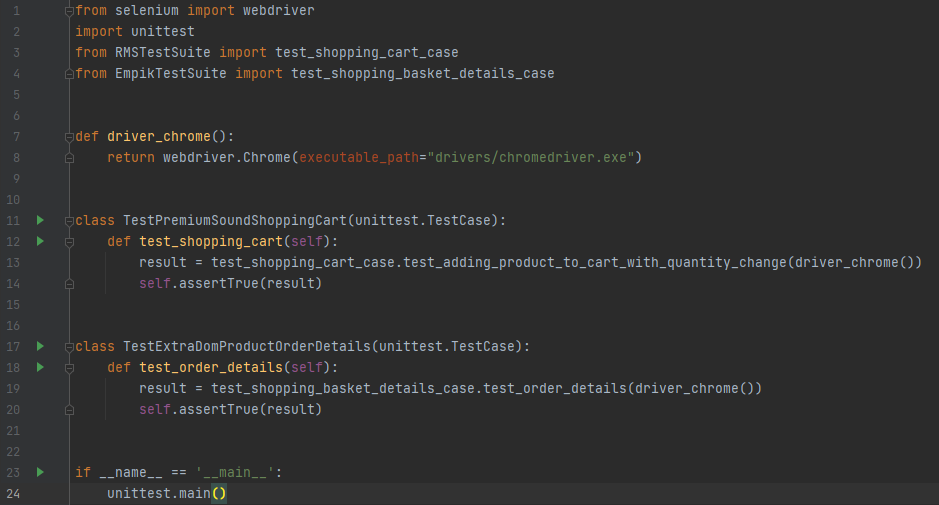
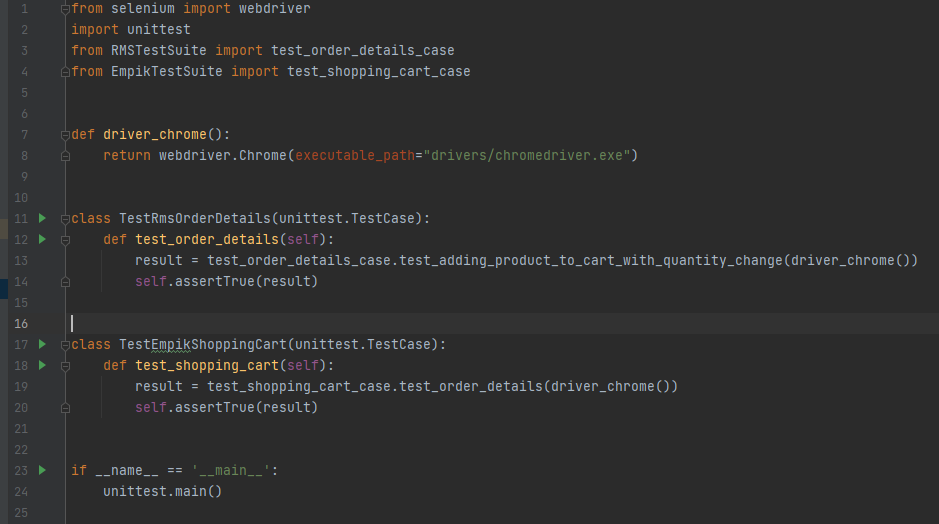
Fixed Empik test case, changed imgs

diff --git a/Lab_8/EmpikTestSuite/test_shopping_cart_case.py b/Lab_8/EmpikTestSuite/test_shopping_cart_case.py
@@ -11,23 +11,30 @@ def test_product_order_details(expected_text, driver):
         driver.maximize_window()
         driver.get(url)
 
-        books_category_btn = driver.find_element_by_xpath("/html/body/main/div[1]/div/div[1]/div/ul/li[5]/a")
-        books_category_btn.click()
+        search_bar_input = driver.find_element_by_xpath('//*[@id="bq"]')
+        search_bar_input.send_keys("ekstremista")
 
-        time.sleep(3)
+        time.sleep(1.5)
 
-        ekstremista_book_card = driver.find_element_by_xpath("/html/body/main/section/div/div[2]/div[4]/section/div/div[2]/div/div/section/div/div[3]/a")
-        ekstremista_book_card.click()
+        search_btn = driver.find_element_by_xpath('//*[@id="searchSet"]/button')
+        search_btn.click()
 
-        time.sleep(2)
+        time.sleep(1.5)
 
-        add_to_cart_btn = driver.find_element_by_xpath("/html/body/main/div[1]/div[3]/div[3]/div/div[1]/div[2]/div/div[1]/div/div[5]/div/button")
+        book_card = driver.find_element_by_xpath('/html/body/main/div[2]/div/div/div/div[2]/div[2]/div[3]/div[1]/div/a')
+        book_card.click()
+
+        time.sleep(1.5)
+
+        add_to_cart_btn = driver.find_element_by_xpath('//*[@id="p1266420276"]')
         add_to_cart_btn.click()
 
-        time.sleep(2)
+        time.sleep(1.5)
 
         go_to_cart_btn = driver.find_element_by_xpath('//*[@id="portal-root"]/div/div[2]/div[2]/div[1]/button')
         go_to_cart_btn.click()
+
+        time.sleep(1.5)
 
     except Exception as e:
         print("Fields required for shopping cart case not found: ", e)

diff --git a/Lab_8/setup.py b/Lab_8/setup.py
@@ -1,22 +1,22 @@
 from selenium import webdriver
 import unittest
-from RMSTestSuite import test_shopping_cart_case
-from EmpikTestSuite import test_shopping_basket_details_case
+from RMSTestSuite import test_order_details_case
+from EmpikTestSuite import test_shopping_cart_case
 
 
 def driver_chrome():
     return webdriver.Chrome(executable_path="drivers/chromedriver.exe")
 
 
-class TestPremiumSoundShoppingCart(unittest.TestCase):
-    def test_shopping_cart(self):
-        result = test_shopping_cart_case.test_adding_product_to_cart_with_quantity_change(driver_chrome())
+class TestRmsOrderDetails(unittest.TestCase):
+    def test_order_details(self):
+        result = test_order_details_case.test_adding_product_to_cart_with_quantity_change(driver_chrome())
         self.assertTrue(result)
 
 
-class TestExtraDomProductOrderDetails(unittest.TestCase):
-    def test_order_details(self):
-        result = test_shopping_basket_details_case.test_order_details(driver_chrome())
+class TestEmpikShoppingCart(unittest.TestCase):
+    def test_shopping_cart(self):
+        result = test_shopping_cart_case.test_order_details(driver_chrome())
         self.assertTrue(result)
 
 

diff --git a/Lab_8/RMSTestSuite/test_order_details_case.py b/Lab_8/RMSTestSuite/test_order_details_case.py
@@ -4,7 +4,7 @@ from selenium.webdriver.support.ui import WebDriverWait
 import time
 
 
-def test_shopping_cart(expected_text, driver):
+def test_order_details(expected_text, driver):
     try:
         url = "https://sklep.rms.pl/"
 
@@ -49,4 +49,4 @@ def test_shopping_cart(expected_text, driver):
 def test_adding_product_to_cart_with_quantity_change(driver):
     expected_text = "1198"
 
-    return test_shopping_cart(expected_text, driver)
+    return test_order_details(expected_text, driver)
